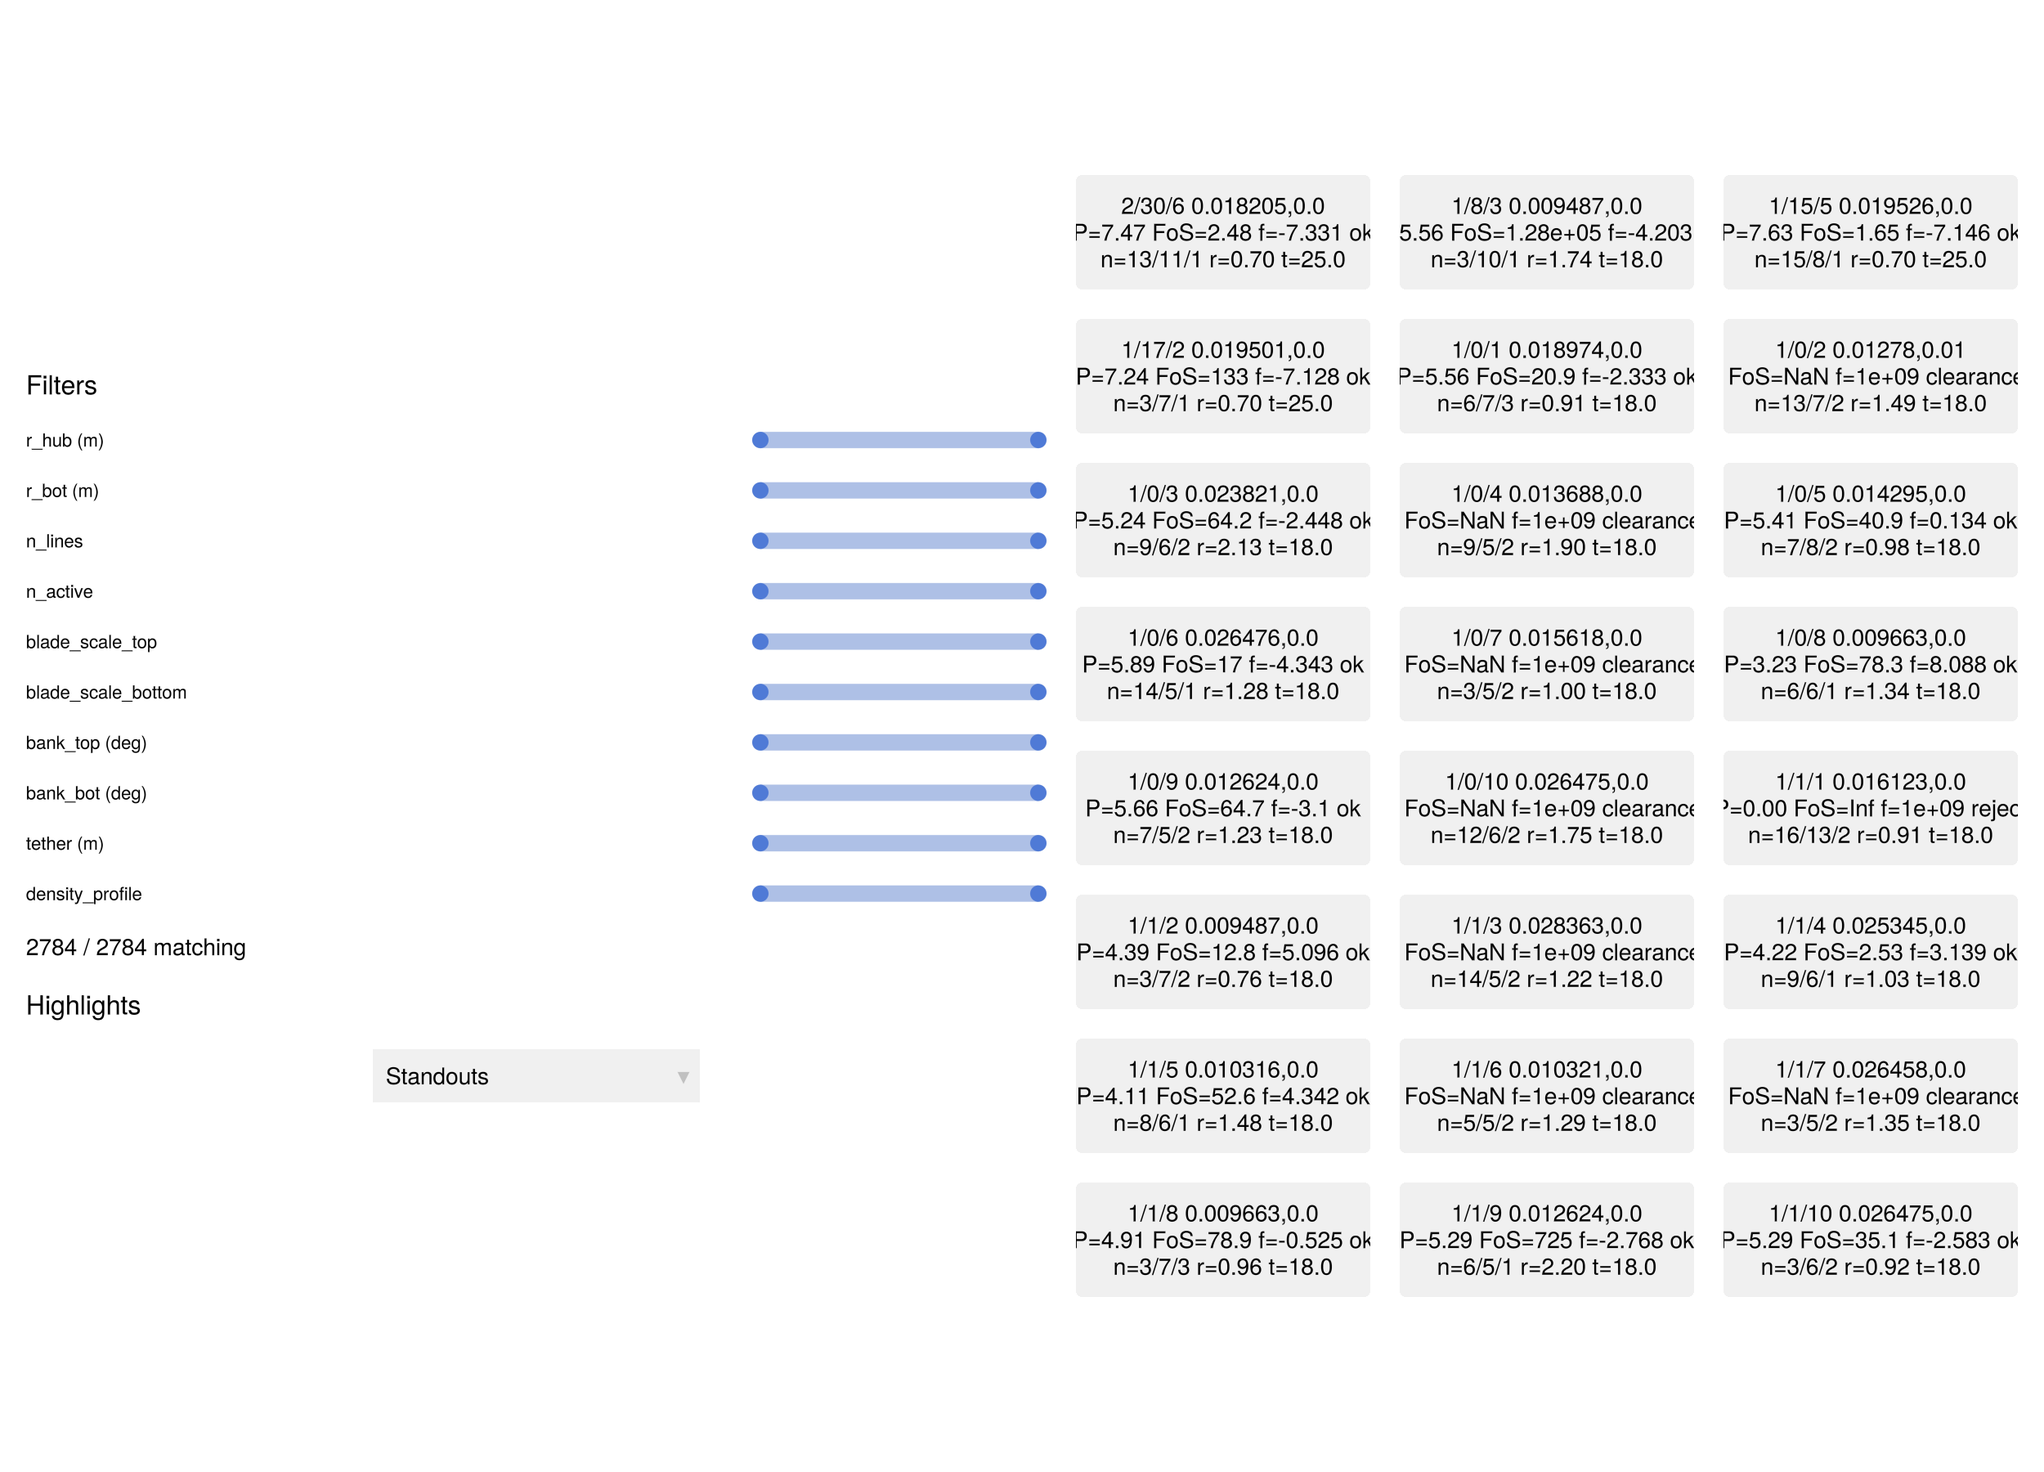
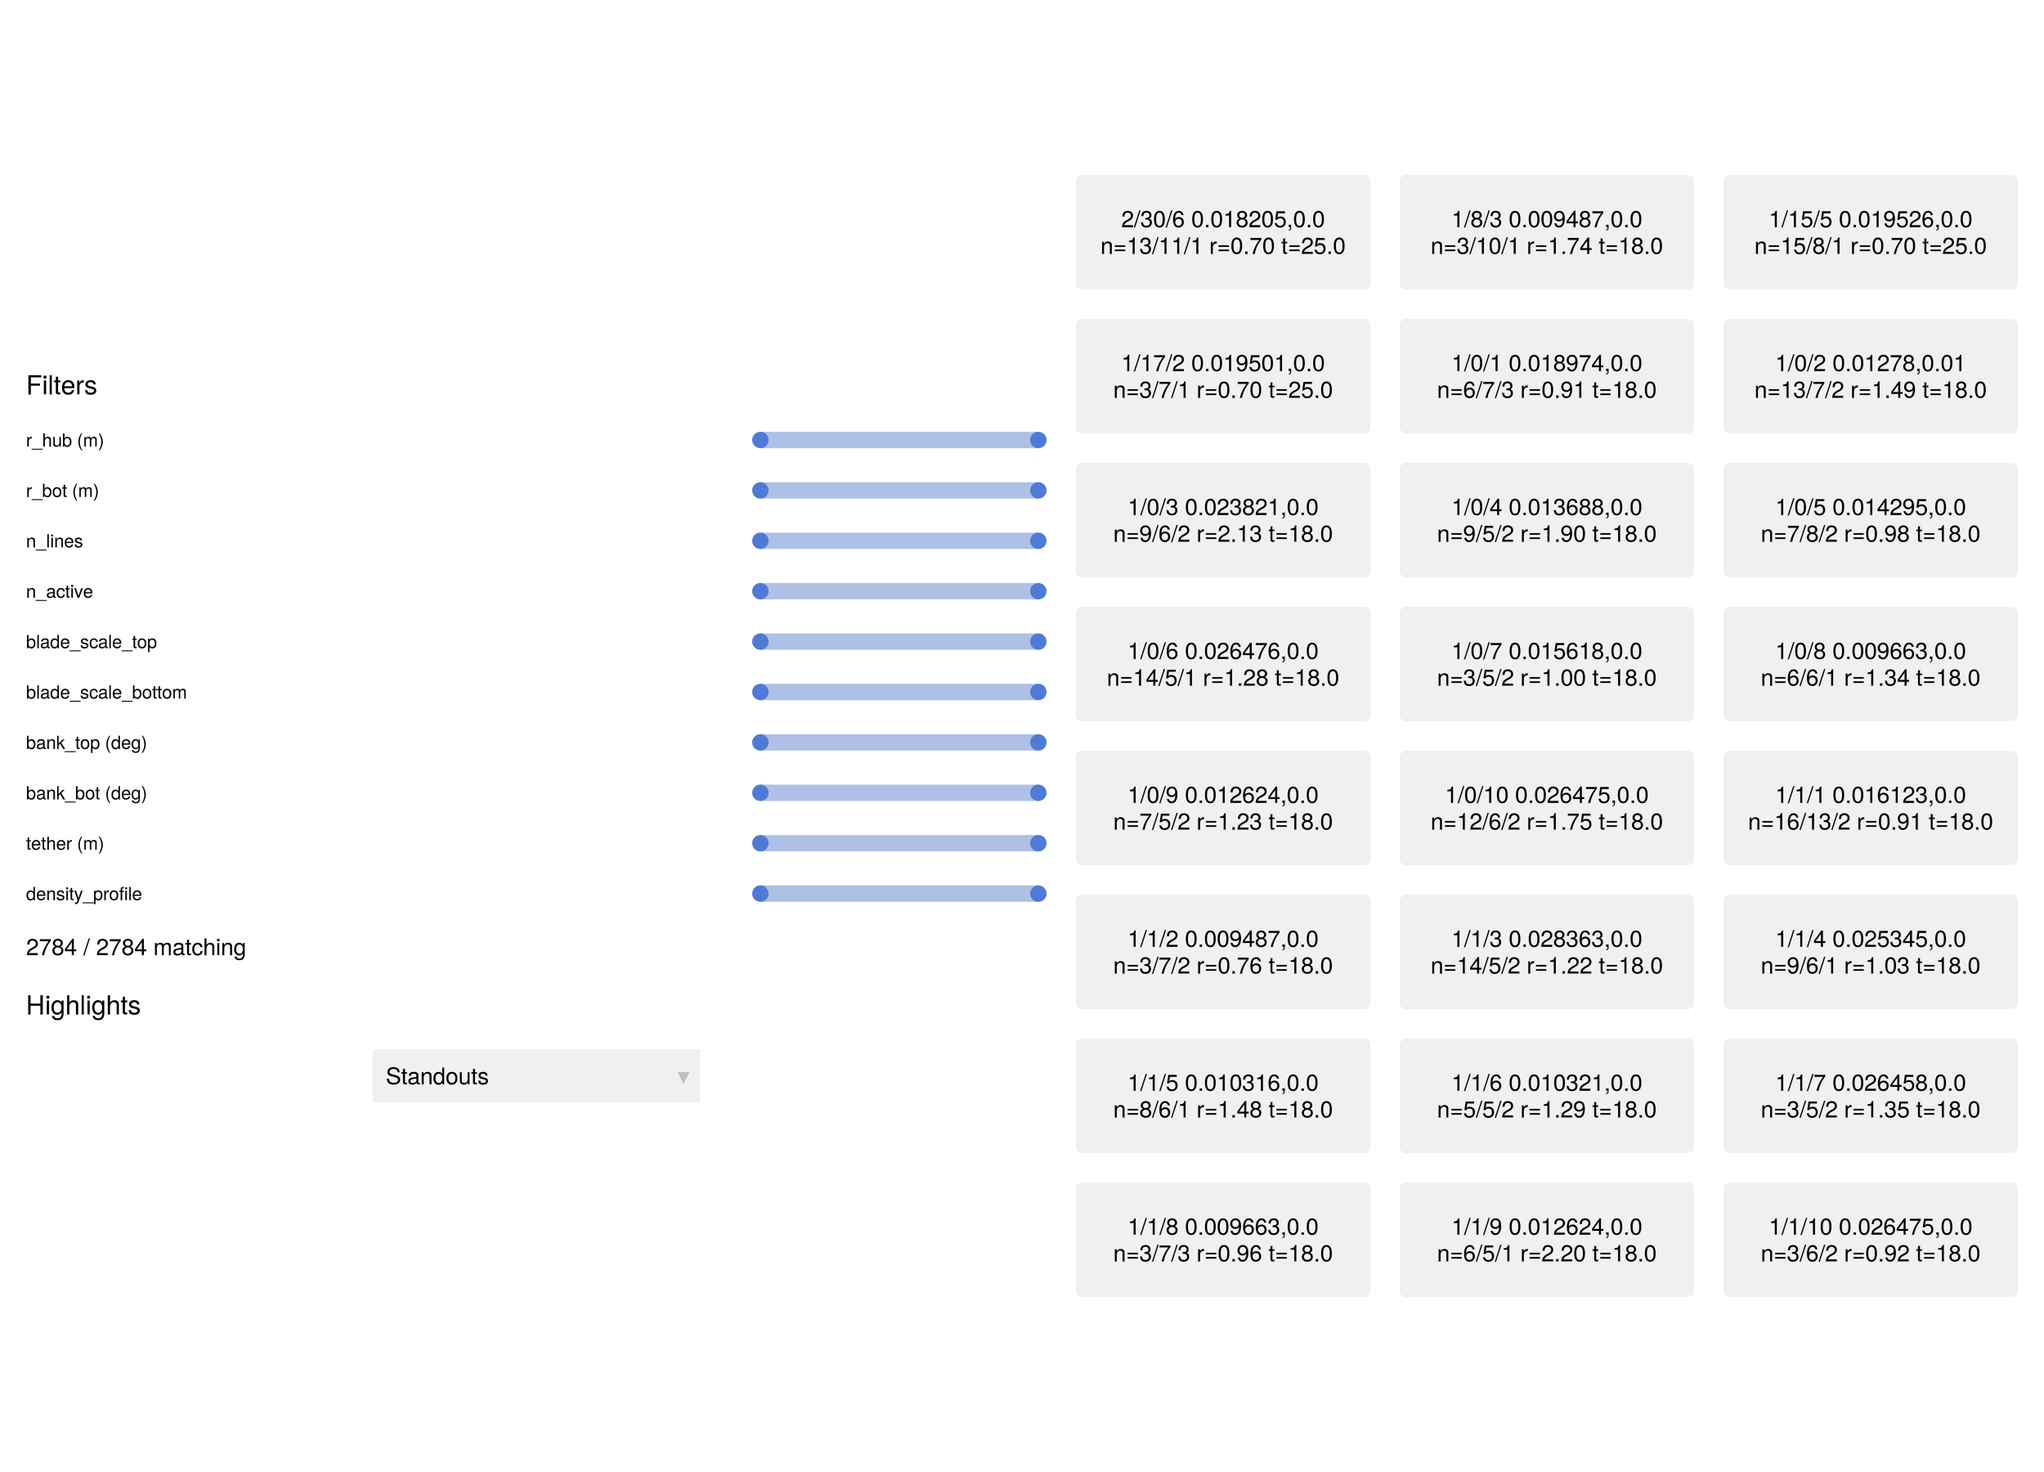
feat(reporting): the Figure 12 gallery re-runs whole at the strip commit - three frame hashes repeat and one changes, which is the control the one-pass caption needs. At ecc6fc6: v1 be8a88e4 and v2 b4fdedf0 re-drew byte for byte from render-captures-head.jl, the cartography c0a3f49a re-drew byte for

diff --git a/docs/reporting/figures/instrument-gallery/captures/stamp.py b/docs/reporting/figures/instrument-gallery/captures/stamp.py
@@ -33,6 +33,17 @@ ERA = "post-95c385d_wind-authority"
 # geometry only), but the row is hashed so the drawn object is pinned.
 ARCHIVE = REPO / "scripts/results/trpt_opt_v2/10kw_circular_straight_taper_s1/elite_archive.csv"
 
+# The chooser's input set, named. `collect_telemetry_csvs` scans `v13_5kw_len*`
+# one level deep under the directory it is given, so the set is what the glob
+# selects in `scripts/results` and not whichever copy a shell happened to hand
+# it. The frame's own `2784 / 2784 matching` counts rows across these files
+# (3 x 928), and the stamp has to name them or that count is a citation.
+TELEMETRY = [
+    REPO / "scripts/results/v13_5kw_len18.0/telemetry.csv",
+    REPO / "scripts/results/v13_5kw_len21.2/telemetry.csv",
+    REPO / "scripts/results/v13_5kw_len25.0/telemetry.csv",
+]
+
 RENDERERS = {
     "v1_v2": HERE / "render-captures-head.jl",
     "chooser": REPO / "scripts/view_campaign_genomes.jl",
@@ -53,6 +64,7 @@ CAPTURES = {
         px_per_unit=1.25,
         shot="1600 x 950 logical units, saved at px_per_unit 1.25",
         row=1,
+        flags="No flags. The defaults of render-captures-head.jl print this frame.",
         note="byte-identical to Figure 11's member; reproduced at this commit as the re-stamp control",
     ),
     "dashboard-v2-head.png": dict(
@@ -61,6 +73,7 @@ CAPTURES = {
         px_per_unit=1.0,
         shot="1780 x 1180 logical units, one frame of a 1.0 s canonical run (50 frames, SAVE_EVERY 500, DT 4e-5)",
         row=1,
+        flags="No flags. The defaults of render-captures-head.jl print this frame.",
         note="byte-identical to Figure 11's member; reproduced at this commit as the re-stamp control",
     ),
     "genome-chooser-head.png": dict(
@@ -69,7 +82,15 @@ CAPTURES = {
         px_per_unit=2,
         shot="1250 x 900 logical units at px_per_unit 2",
         row=2,
-        note="reads the campaign telemetry CSVs the browser exists to browse; prints none of their values",
+        flags=(
+            "--smoke=<prefix> scripts/results. The --smoke path sets card_text "
+            "style=:identity. The interactive browser keeps :full."
+        ),
+        note=(
+            "loads the three telemetry CSVs named under chooser_inputs and prints no value "
+            "from one: the cards carry island/gen/idx, the genome fingerprint and decoded "
+            "geometry (n_lines/n_rings/n_active, r_hub, tether) only"
+        ),
     ),
     "winner-10kw-cartography-head.png": dict(
         interface="10 kW winner cartography (render_winners_clean.jl)",
@@ -81,6 +102,11 @@ CAPTURES = {
             " (tower ink h/w 3.122 at the script's portrait default, 3.113 here)"
         ),
         row=2,
+        flags=(
+            "KTD_WINNER_FIG_W=2000 KTD_WINNER_FIG_H=1409 KTD_WINNER_AX_W=1880 "
+            "KTD_WINNER_AX_H=1330 KTD_WINNER_TITLE=geometry KTD_WINNER_OUT=<dir>. "
+            "The script default is TITLE=full."
+        ),
         note=(
             "title mode geometry: design tag and object descriptors only, no mass and no "
             "min_fos; draws its ring stack from elite_archive.csv at the pin"
@@ -130,6 +156,9 @@ def main() -> None:
                  for k, p in RENDERERS.items()}
     archive = {"path": str(ARCHIVE.relative_to(REPO)), "sha256": sha256(ARCHIVE),
                "tracked": git("ls-files", str(ARCHIVE.relative_to(REPO))) != ""}
+    telemetry = [{"path": str(t.relative_to(REPO)), "sha256": sha256(t),
+                  "tracked": git("ls-files", str(t.relative_to(REPO))) != ""}
+                 for t in TELEMETRY]
 
     captures = {}
     for name, kwargs in CAPTURES.items():
@@ -166,20 +195,27 @@ def main() -> None:
         "era": ERA,
         "reads_dataset": True,
         "dataset_note": (
-            "Three panels read no campaign row: v1 and v2 render the 10 kW canonical "
-            "system from the tree (params_10kw(), settled at V = 11 m/s), and the chooser "
-            "browses the telemetry CSVs without printing a value from one. The cartography "
-            "panel decodes its ring stack from elite_archive.csv at the pin and prints no "
-            "campaign quantity: its title carries the design tag and geometry descriptors "
-            "only. No value elsewhere in the report is taken from any capture."
+            "Two panels read no dataset: v1 and v2 render the 10 kW canonical system from "
+            "the tree (params_10kw(), settled at V = 11 m/s). Two read campaign files at the "
+            "pin and print no value from either. The chooser loads the three telemetry CSVs "
+            "named under chooser_inputs (the set the renderer's own glob selects in "
+            "scripts/results, 3 x 928 = 2784 rows) and its cards carry identity and decoded "
+            "geometry only, because the --smoke path sets card_text style=:identity, which "
+            "drops P_mean, FoS, fitness and status. The cartography decodes its ring stack "
+            "from elite_archive.csv and its title carries the design tag and geometry "
+            "descriptors only. No panel in the four prints a campaign result, and no value "
+            "elsewhere in the report is taken from any capture."
         ),
         "archive_input": archive,
+        "chooser_inputs": telemetry,
         "provenance_note": (
-            "v1 and v2's renderer, render-captures-head.jl, lived in an untracked kit "
-            "directory when the first pass ran; this kit carries a byte-identical copy "
-            "(c1e7e35f...), so from the landing commit onward every renderer named here is "
-            "in the tree. Figure 11's captures directory is itself still untracked, which "
-            "is not this kit's to commit."
+            "Each capture names its invocation under `flags`, because two of the four do "
+            "not print their shipped frame under the renderer's defaults. The chooser's "
+            "identity-only cards come from the --smoke path, and the cartography's geometry "
+            "title is set by KTD_WINNER_TITLE=geometry; a reader holding the commit, the "
+            "renderer and the input hashes still needs those flags to rebuild the frame. "
+            "Figure 11's captures directory is tracked from fa91a8e, so both figures' kits "
+            "now carry a renderer in the tree."
         ),
         "toolchain": {"julia": "1.12.6", "glmakie": "0.13", "python": "3.12.3"},
         "print": {
@@ -221,34 +257,59 @@ def main() -> None:
         lines.append(f"| `{r['path']}` | `{r['sha256']}` |")
     lines += [
         "",
+        "Invocation, per capture. Two frames need flags beyond the script defaults. "
+        "The flags are part of the receipt:",
+        "",
+        "| capture | invocation |",
+        "|---|---|",
+    ]
+    for name, c in captures.items():
+        lines.append(f"| `{name}` | {c['flags']} |")
+    lines += [
+        "",
         f"Cartography input: `{archive['path']}`. Its hash is `{archive['sha256'][:16]}...`. "
         f"The file is tracked at the pin: {archive['tracked']}.",
         "",
-        "The renderer for v1 and v2, `render-captures-head.jl`, was untracked at the first "
-        "pass. This kit holds a byte-identical copy (`c1e7e35f...`). From the landing "
-        "commit onward, each renderer named here is in the tree. The captures directory of "
-        "Figure 11 is still untracked. It is not this kit to commit.",
+        "Chooser inputs: the set the renderer's own glob selects in `scripts/results`.",
         "",
-        "The two dashboard frames reproduce the Figure 11 members byte for byte at this "
-        "commit. This is the re-stamp control. A scripts-only diff cannot move them. If "
-        "they had moved, the one-pass claim of the caption would be false.",
+        "| input | sha256 | tracked |",
+        "|---|---|---|",
+    ]
+    for t in telemetry:
+        lines.append(f"| `{t['path']}` | `{t['sha256'][:16]}...` | {t['tracked']} |")
+    lines += [
         "",
-        "Print geometry: an 85 x 59.89 mm box. Each frame fits by the binding dimension. "
+        "The first pass ran before this kit held a tracked renderer for v1 and v2. "
+        "This kit carries a byte-identical copy of that renderer (`c1e7e35f...`). "
+        "Each renderer named here sits in the tree from the landing commit onward. "
+        "The captures directory of Figure 11 is tracked from `fa91a8e`. "
+        "Both figures now carry their renderer.",
+        "",
+        "The two dashboard frames repeat the Figure 11 members byte for byte at this commit. "
+        "That repetition is the re-stamp control. A scripts-only diff cannot move them. "
+        "A move would break the one-pass claim in the caption.",
+        "",
+        "Print geometry is an 85 x 59.89 mm box. Each frame fits by the binding dimension. "
         "No panel is cropped. No panel is upsampled. Row 1 holds v1 and v2 at 56.35 mm. "
         f"Row 2 holds the chooser and the cartography at 59.89 mm. The block is {block} mm. "
-        "It sits in a 174 mm measure with a 4 mm gutter. The rows are flush from 0.00 mm.",
+        "It sits in a 174 mm measure with a 4 mm gutter. The rows run flush from 0.00 mm.",
         "",
-        "Type at these widths: v1 2.17 pt, v2 2.98 pt, chooser 2.92 pt, cartography "
+        "Type at these widths: v1 2.17 pt, v2 2.98 pt, chooser 2.36 pt, cartography "
         "2.59 pt. The cartography title band is 43 px at 85 mm. The smallest labels are "
-        "1.22 pt (v2, 9 px).",
+        "1.22 pt in v2 and 1.13 pt in the chooser filter column. The card strip does not "
+        "touch that column. The tallest chooser line was 2.92 pt before the strip. It is "
+        "2.36 pt after, because the line carrying P_mean reached highest. The set ceiling "
+        "is v2 at 2.98 pt either way.",
         "",
         "Source line for the plate:",
         "",
-        f"> captures: four instrument frames at `{head[:7]}` - v1 and v2 from "
-        f"`render-captures-head.jl`, chooser from `view_campaign_genomes.jl --smoke`, "
-        f"cartography from `render_winners_clean.jl` (title mode geometry) - era `{ERA}` - "
-        "cartography geometry read from `trpt_opt_v2/10kw_circular_straight_taper_s1/"
-        "elite_archive.csv`, no value printed from it",
+        f"> captures: four instrument frames at `{head[:7]}`. v1 and v2 come from "
+        f"`render-captures-head.jl`. The chooser comes from `view_campaign_genomes.jl "
+        f"--smoke` over the three `v13_5kw_len*` telemetry sets, with cards in "
+        f"identity+geometry style. The cartography comes from `render_winners_clean.jl` "
+        f"with `KTD_WINNER_TITLE=geometry`. Era `{ERA}`. The cartography geometry reads "
+        "from `trpt_opt_v2/10kw_circular_straight_taper_s1/elite_archive.csv`. No value "
+        "prints from either input.",
         "",
     ]
     (HERE / "captures.md").write_text("\n".join(lines))

diff --git a/docs/reporting/figures/instrument-gallery/captures/captures.md b/docs/reporting/figures/instrument-gallery/captures/captures.md
@@ -1,12 +1,12 @@
 # Figure 12 instrument gallery: provenance
 
-Rendered at `c15d0e0` (bank-derate-cos2p65), 2026-10-21 18:55:05 +0100. Era `post-95c385d_wind-authority`. One pass, one commit.
+Rendered at `ecc6fc6` (bank-derate-cos2p65), 2026-10-21 19:27:08 +0100. Era `post-95c385d_wind-authority`. One pass, one commit.
 
 | capture | pixels | prints | dpi | sha256 |
 |---|---|---|---|---|
[5 lines of base64/hex data omitted]
 
 Renderers, hashed in this kit:
@@ -14,19 +14,36 @@ Renderers, hashed in this kit:
 | renderer | sha256 |
 |---|---|
[4 lines of base64/hex data omitted]
+
+Invocation, per capture. Two frames need flags beyond the script defaults. The flags are part of the receipt:
+
+| capture | invocation |
+|---|---|
+| `dashboard-v1-head.png` | No flags. The defaults of render-captures-head.jl print this frame. |
+| `dashboard-v2-head.png` | No flags. The defaults of render-captures-head.jl print this frame. |
+| `genome-chooser-head.png` | --smoke=<prefix> scripts/results. The --smoke path sets card_text style=:identity. The interactive browser keeps :full. |
+| `winner-10kw-cartography-head.png` | KTD_WINNER_FIG_W=2000 KTD_WINNER_FIG_H=1409 KTD_WINNER_AX_W=1880 KTD_WINNER_AX_H=1330 KTD_WINNER_TITLE=geometry KTD_WINNER_OUT=<dir>. The script default is TITLE=full. |
 
 Cartography input: `scripts/results/trpt_opt_v2/10kw_circular_straight_taper_s1/elite_archive.csv`. Its hash is `aa441c837fd036a8...`. The file is tracked at the pin: True.
 
-The renderer for v1 and v2, `render-captures-head.jl`, was untracked at the first pass. This kit holds a byte-identical copy (`c1e7e35f...`). From the landing commit onward, each renderer named here is in the tree. The captures directory of Figure 11 is still untracked. It is not this kit to commit.
+Chooser inputs: the set the renderer's own glob selects in `scripts/results`.
 
-The two dashboard frames reproduce the Figure 11 members byte for byte at this commit. This is the re-stamp control. A scripts-only diff cannot move them. If they had moved, the one-pass claim of the caption would be false.
+| input | sha256 | tracked |
+|---|---|---|
+| `scripts/results/v13_5kw_len18.0/telemetry.csv` | `cf878687e8effe20...` | True |
+| `scripts/results/v13_5kw_len21.2/telemetry.csv` | `8e2508fc4c695977...` | True |
+| `scripts/results/v13_5kw_len25.0/telemetry.csv` | `f3e19906f254821f...` | True |
 
-Print geometry: an 85 x 59.89 mm box. Each frame fits by the binding dimension. No panel is cropped. No panel is upsampled. Row 1 holds v1 and v2 at 56.35 mm. Row 2 holds the chooser and the cartography at 59.89 mm. The block is 120.24 mm. It sits in a 174 mm measure with a 4 mm gutter. The rows are flush from 0.00 mm.
+The first pass ran before this kit held a tracked renderer for v1 and v2. This kit carries a byte-identical copy of that renderer (`c1e7e35f...`). Each renderer named here sits in the tree from the landing commit onward. The captures directory of Figure 11 is tracked from `fa91a8e`. Both figures now carry their renderer.
 
-Type at these widths: v1 2.17 pt, v2 2.98 pt, chooser 2.92 pt, cartography 2.59 pt. The cartography title band is 43 px at 85 mm. The smallest labels are 1.22 pt (v2, 9 px).
+The two dashboard frames repeat the Figure 11 members byte for byte at this commit. That repetition is the re-stamp control. A scripts-only diff cannot move them. A move would break the one-pass claim in the caption.
+
+Print geometry is an 85 x 59.89 mm box. Each frame fits by the binding dimension. No panel is cropped. No panel is upsampled. Row 1 holds v1 and v2 at 56.35 mm. Row 2 holds the chooser and the cartography at 59.89 mm. The block is 120.24 mm. It sits in a 174 mm measure with a 4 mm gutter. The rows run flush from 0.00 mm.
+
+Type at these widths: v1 2.17 pt, v2 2.98 pt, chooser 2.36 pt, cartography 2.59 pt. The cartography title band is 43 px at 85 mm. The smallest labels are 1.22 pt in v2 and 1.13 pt in the chooser filter column. The card strip does not touch that column. The tallest chooser line was 2.92 pt before the strip. It is 2.36 pt after, because the line carrying P_mean reached highest. The set ceiling is v2 at 2.98 pt either way.
 
 Source line for the plate:
 
-> captures: four instrument frames at `c15d0e0` - v1 and v2 from `render-captures-head.jl`, chooser from `view_campaign_genomes.jl --smoke`, cartography from `render_winners_clean.jl` (title mode geometry) - era `post-95c385d_wind-authority` - cartography geometry read from `trpt_opt_v2/10kw_circular_straight_taper_s1/elite_archive.csv`, no value printed from it
+> captures: four instrument frames at `ecc6fc6`. v1 and v2 come from `render-captures-head.jl`. The chooser comes from `view_campaign_genomes.jl --smoke` over the three `v13_5kw_len*` telemetry sets, with cards in identity+geometry style. The cartography comes from `render_winners_clean.jl` with `KTD_WINNER_TITLE=geometry`. Era `post-95c385d_wind-authority`. The cartography geometry reads from `trpt_opt_v2/10kw_circular_straight_taper_s1/elite_archive.csv`. No value prints from either input.
